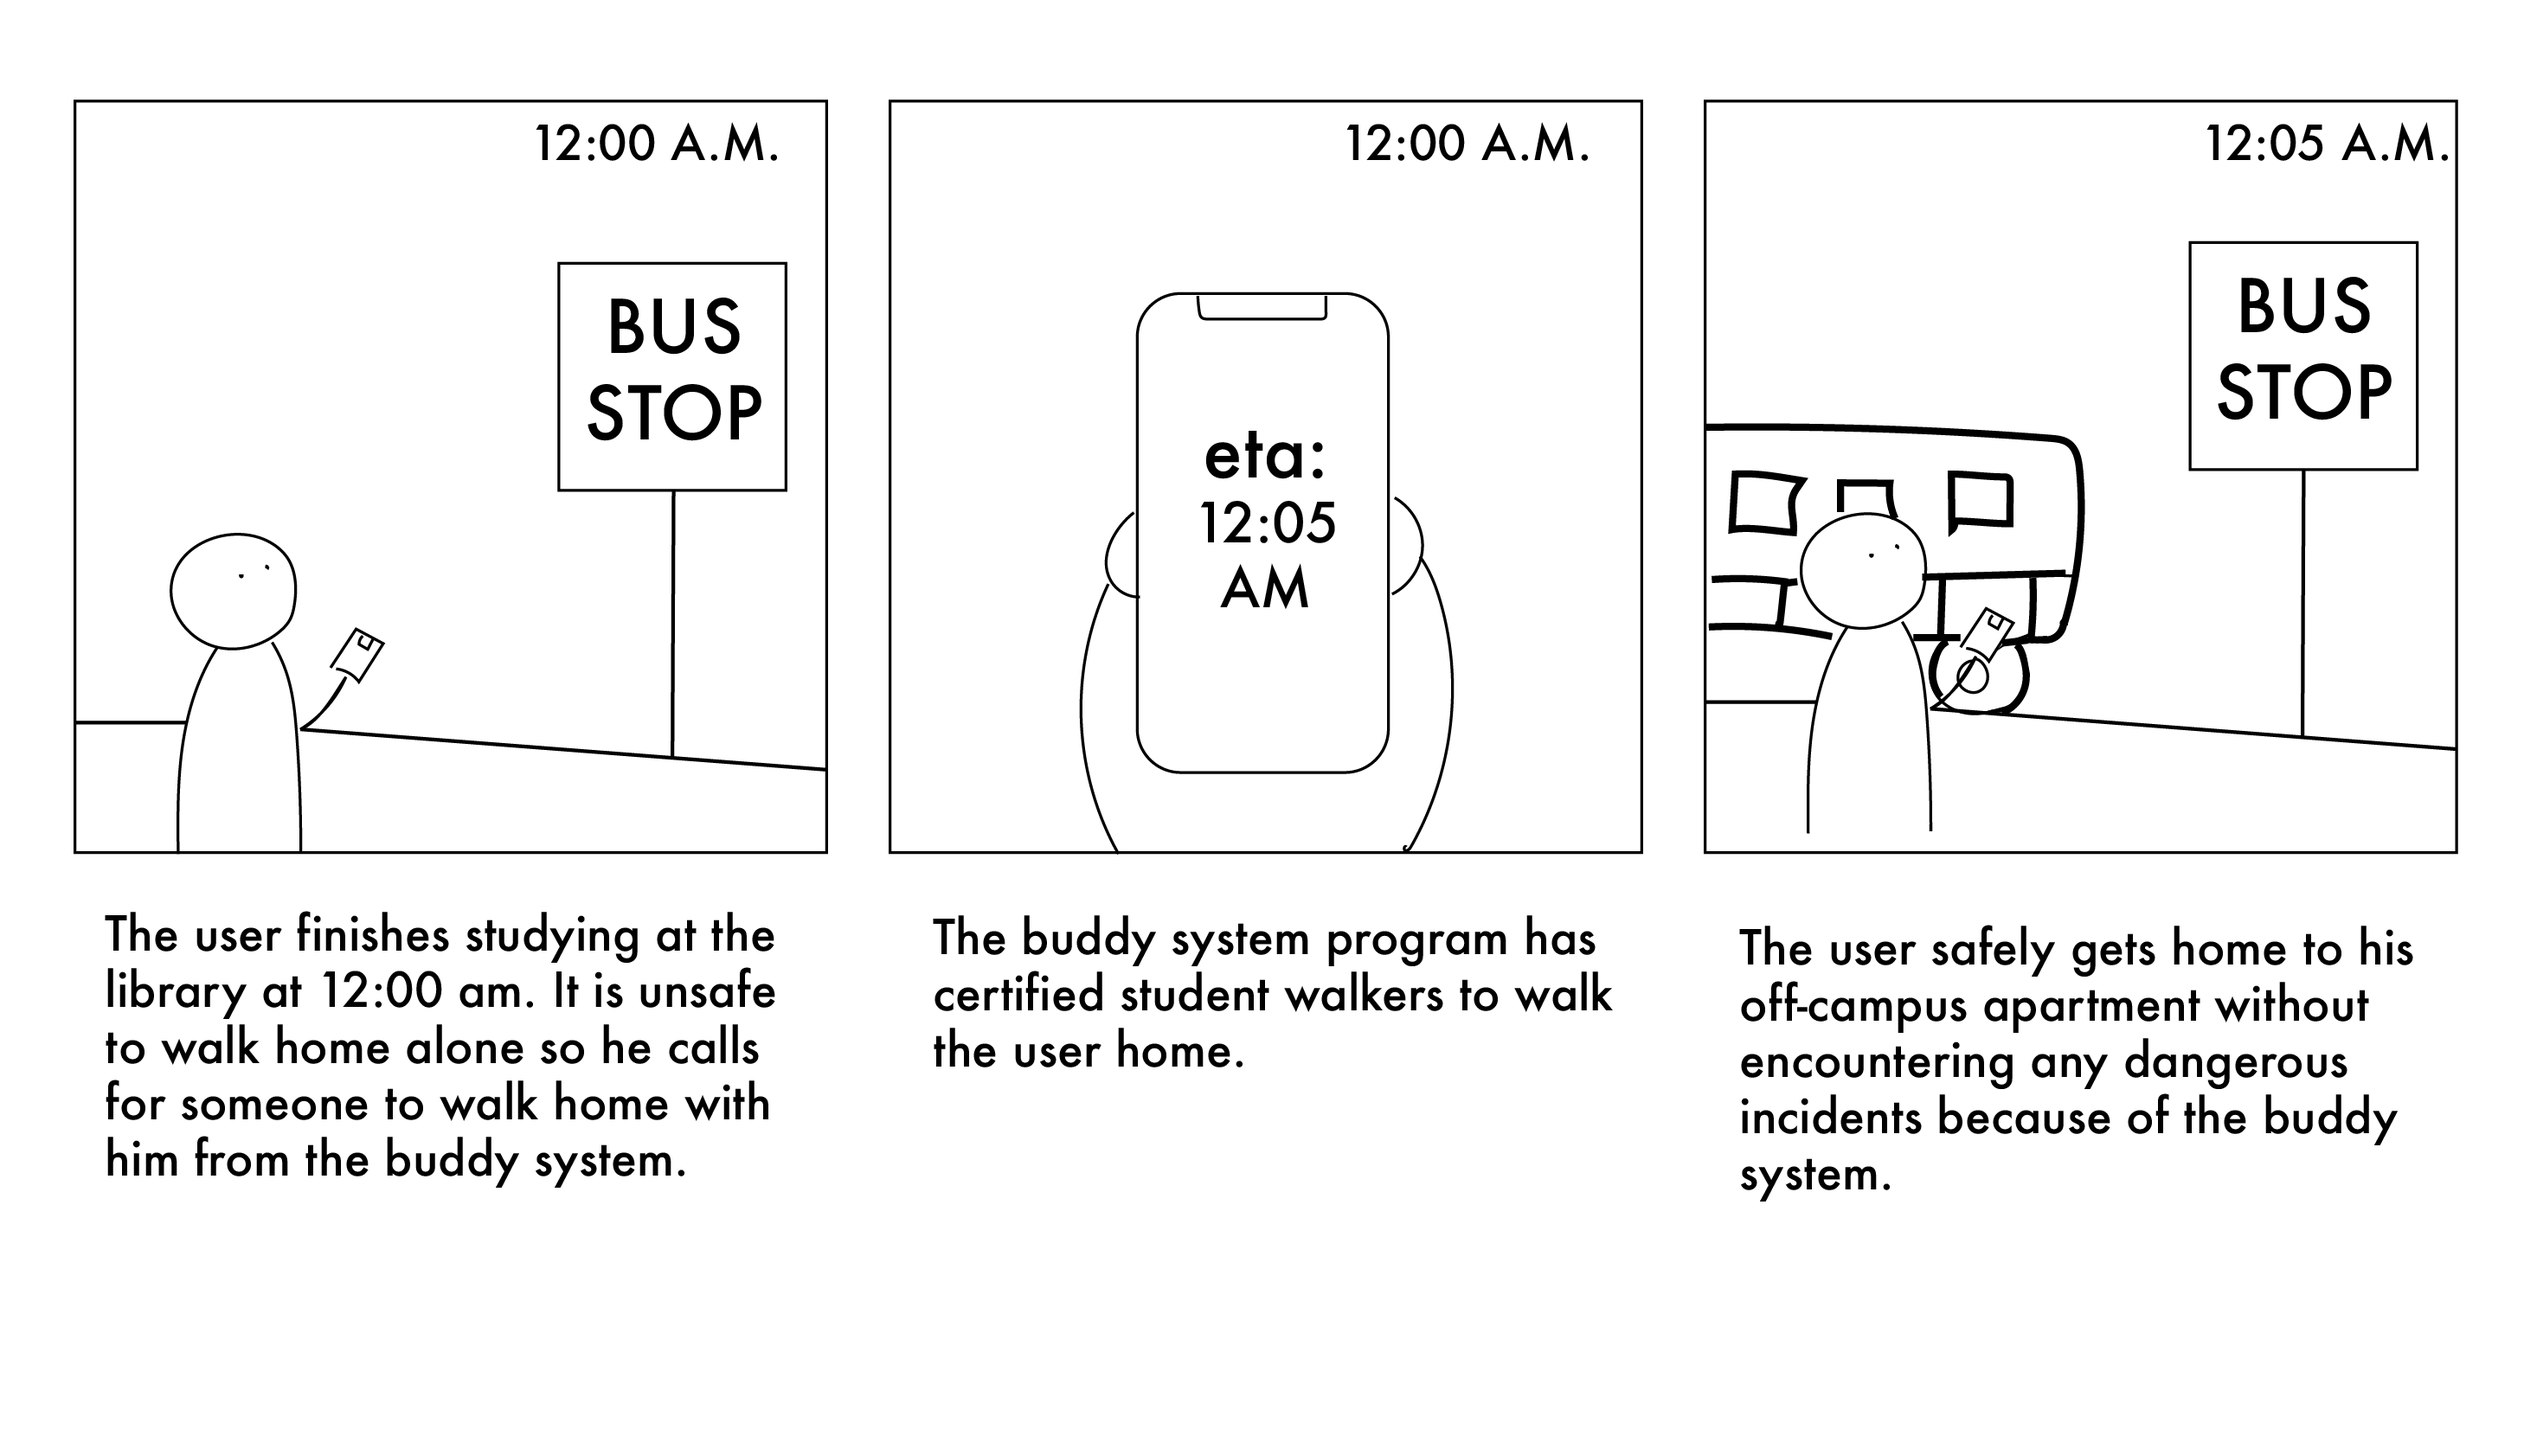
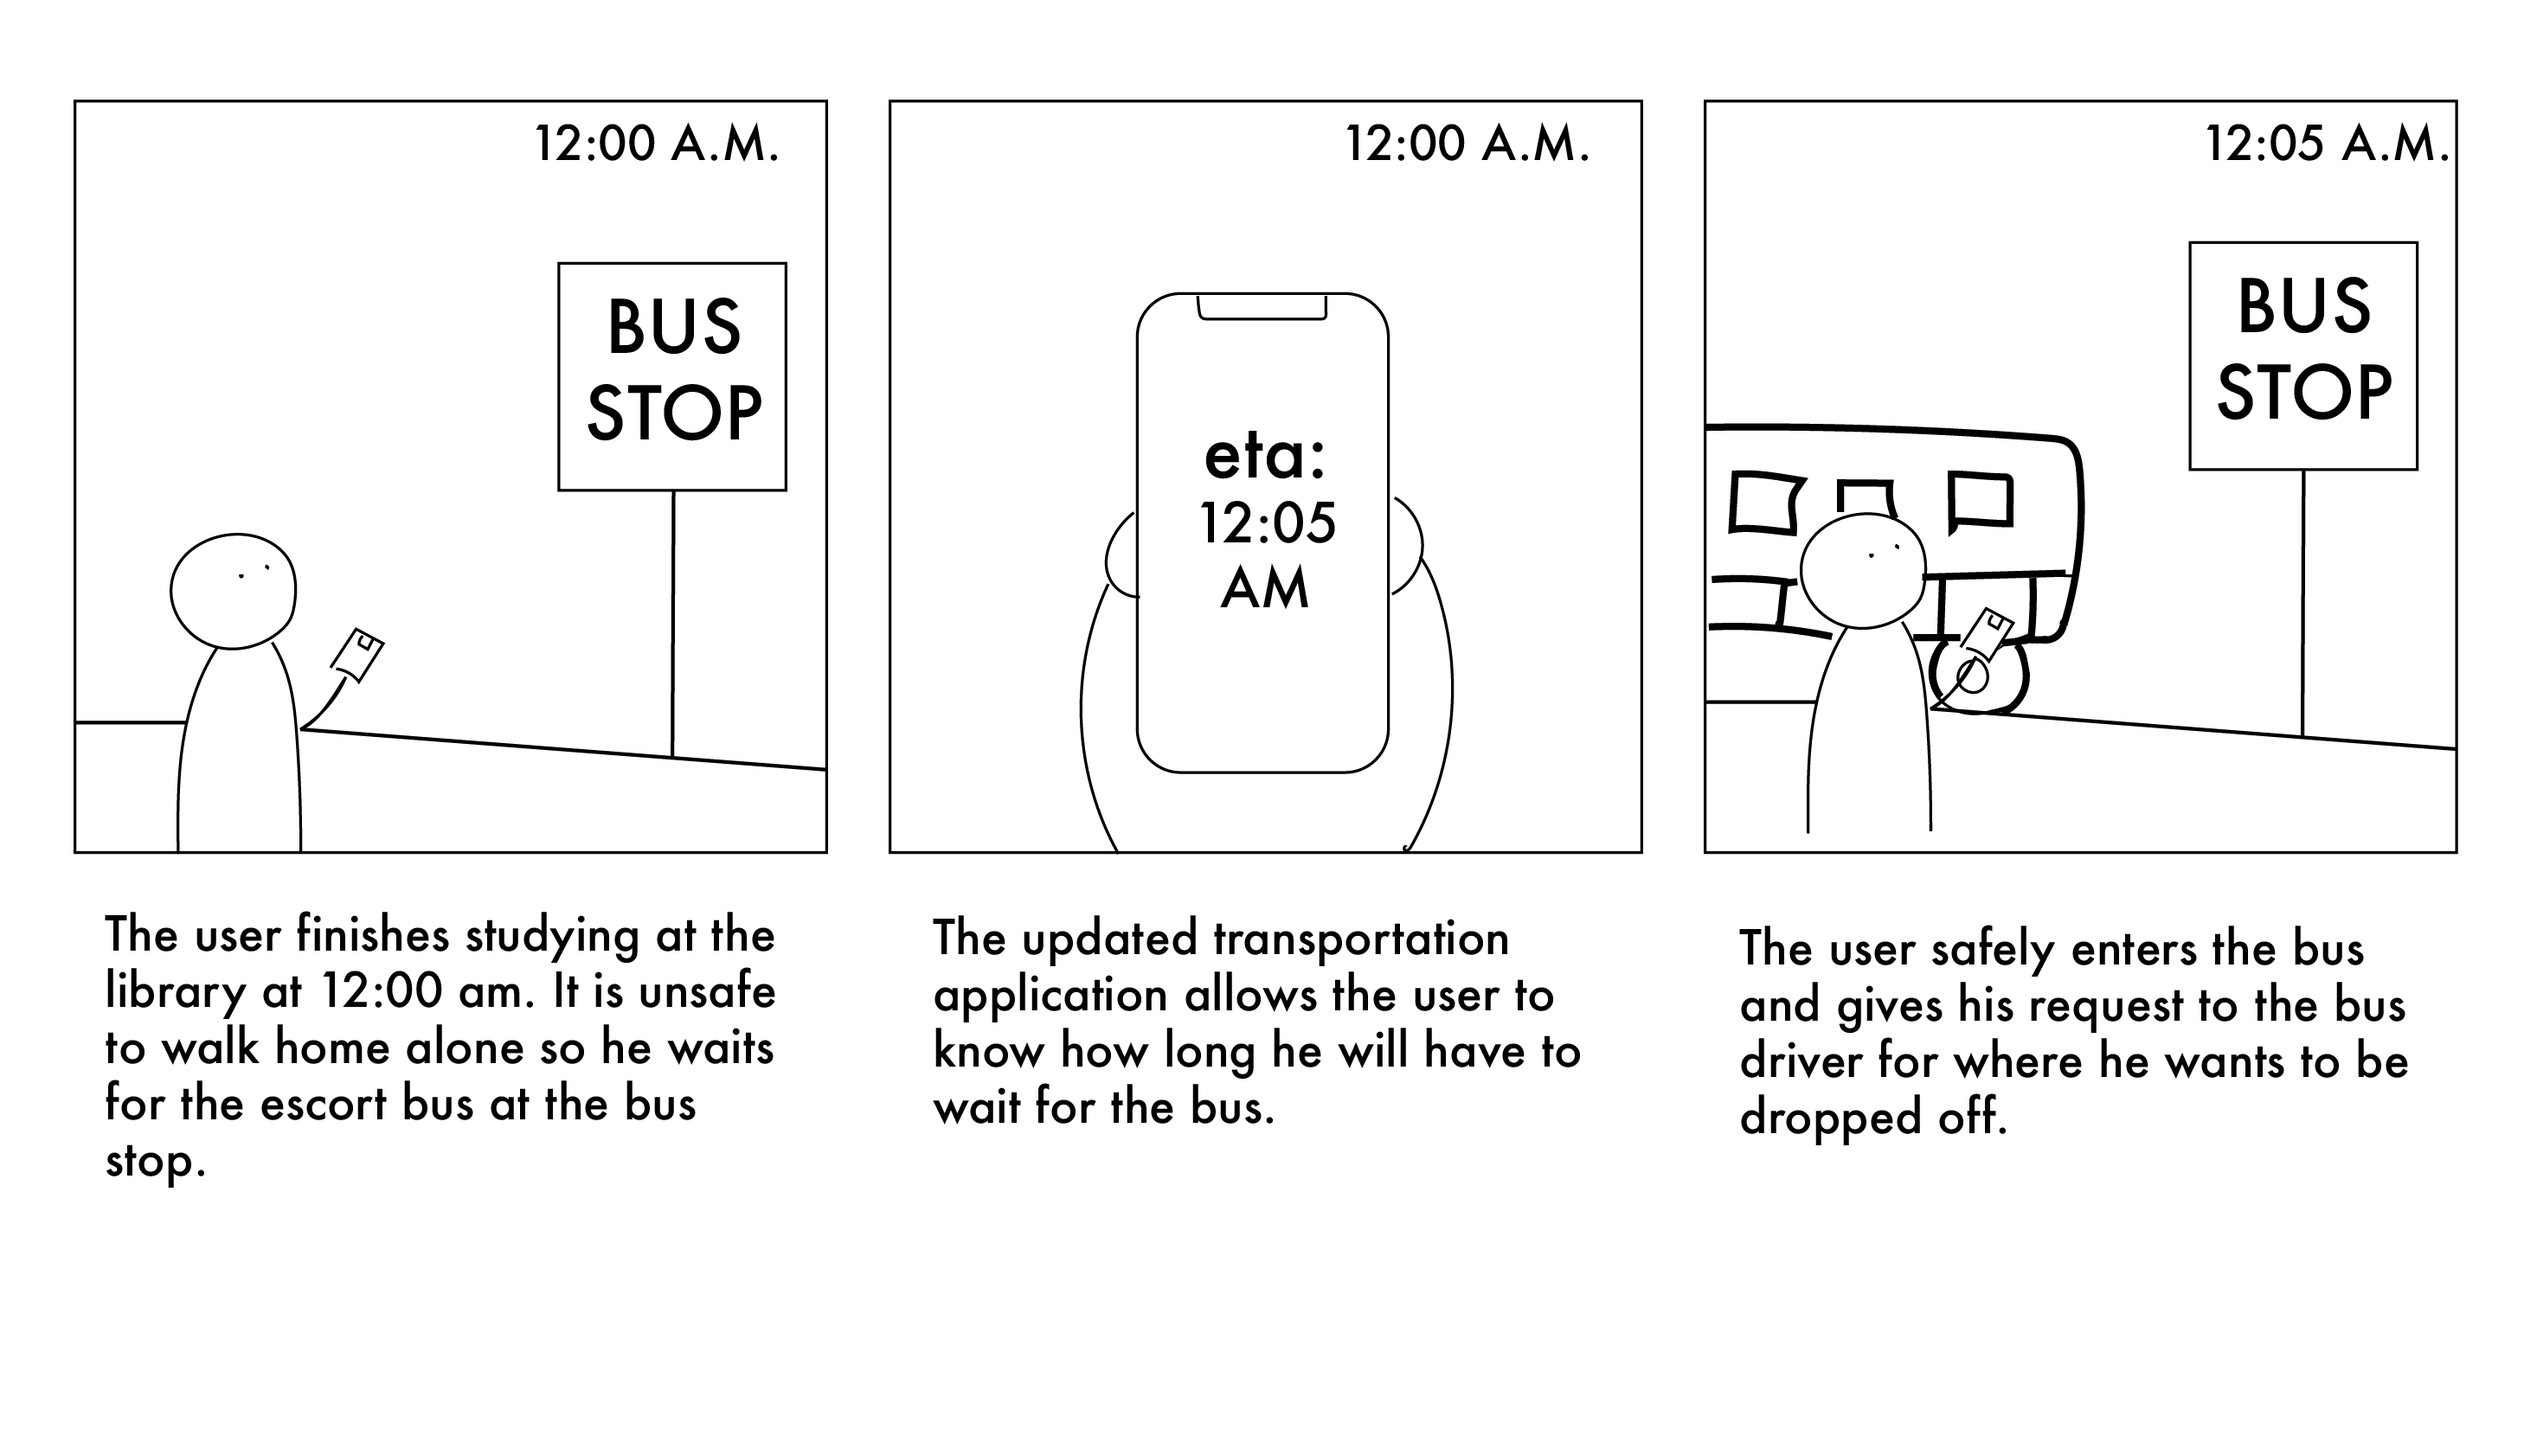
image edit

Changed region(s): [[0.6863, 0.6551, 0.9671, 0.8422], [0.3744, 0.6239, 0.6551, 0.7798], [0.0312, 0.7175, 0.312, 0.811]]

diff --git a/safety-escort.html b/safety-escort.html
@@ -82,9 +82,9 @@
         <h4 class="ae-u-bolder">Research</h4>
         <i><h5 class="ae-u">Secondary Research</h5></i>
         <p class="ae-u">To understand the current problem of why the escort bus service was not being utilized by students and faculty, I consulted the CMU Police, who manage the escort bus service to learn more about the escort bus service and also read about the service on the official website. Some key findings were:
-          <p> - The escort bus drivers handwrite the estimated capacity of each stop but it is not shown in the application
-            <p> - The escort bus takes requests of where to stop off campus (such as apartment complexes)
-              <p> - The escort bus only operates from 6PM-6AM
+          <p> - The escort bus drivers handwrite the estimated capacity of each stop but it is not shown in the application.
+            <p> - The escort bus takes requests of where to stop off campus (such as apartment complexes).
+              <p> - The escort bus only operates from 6PM-6AM.
         <i><h5 class="ae-u">Primary Research</h5></i>
         <p class="ae-u">After understanding more about the background of the escort bus system, I surveyed students and faculty to understand
           what they know about the escort system and their thoughts on how it can be improved. </p>
